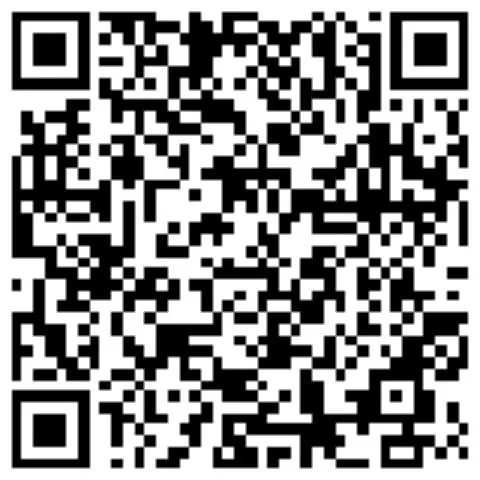
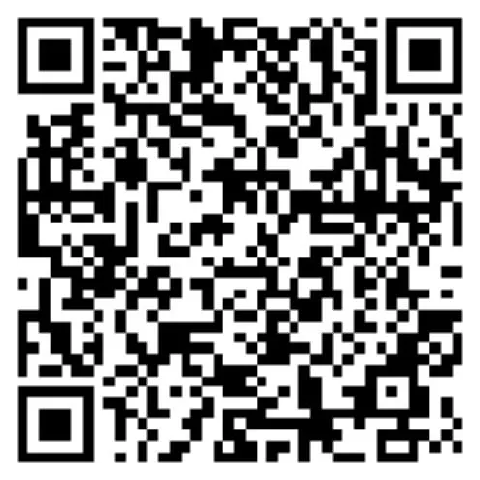
Slides: co-host photo, QR codes, and text box removal in edit mode
- Connect slide: co-host photo, LinkedIn and repo QR codes, matching tiles and rings
- QR images trimmed to the same size and margin
- Edit mode: emptying a text box removes it from the file on save

diff --git a/public/slides/index.html b/public/slides/index.html
@@ -399,7 +399,7 @@
 #pw-deck .s-cn .face img{position:absolute;inset:0;width:100%;height:100%;object-fit:cover}
 #pw-deck .s-cn .face img[data-missing]{visibility:hidden}
 #pw-deck .s-cn .face:has(img:not([data-missing])){border:3px solid var(--pw-teal-hi)}
-#pw-deck .s-cn .face.repo{border:2px solid rgba(95,208,223,.45);background:rgba(43,156,174,.1)}
+#pw-deck .s-cn .face.repo{border:3px solid var(--pw-teal-hi);background:rgba(43,156,174,.1)}
 #pw-deck .s-cn .face.repo span{font-family:var(--pw-mono);font-size:34px;font-weight:700;color:var(--pw-teal-hi)}
 #pw-deck .s-cn .cnn{margin-top:16px;font-size:26px;font-weight:750;color:var(--pw-ink)}
 #pw-deck .s-cn .cns{margin-top:4px;margin-bottom:16px;font-size:15px;color:var(--pw-muted);max-width:100%;overflow-wrap:anywhere}
@@ -429,6 +429,7 @@
 #pw-deck.pw-edit [contenteditable]{outline:1px dashed rgba(95,208,223,.35);outline-offset:3px;border-radius:3px;cursor:text}
 #pw-deck.pw-edit [contenteditable]:hover{outline-color:rgba(95,208,223,.85)}
 #pw-deck.pw-edit [contenteditable]:focus{outline:2px solid var(--pw-teal-hi);background:rgba(43,156,174,.1)}
+#pw-deck.pw-edit [contenteditable].pw-gone{outline:2px dashed var(--pw-bad);background:rgba(214,82,99,.12);min-width:60px;min-height:1.2em;opacity:1}
 </style>
 </head>
 <body style="margin:0">
@@ -481,7 +482,7 @@
     <p class="brand pw-in" style="--d:.2s">McDonald's · support chatbot</p>
     <p class="pw-big pw-in" style="--d:.35s">A McDonalds Chatbot was asked to reverse a linked list.</p>
     <p class="pw-big pw-t" data-b="3">And it did.</p>
-    <p class="pw-lead" data-b="3">No one hacked it. A customer typed a request, and the bot treated it as part of its job.</p>
+    
   </div>
 </section>
 
@@ -564,7 +565,7 @@
 <section class="pw-slide s-div" data-div="" aria-label="Section 2">
   <p class="n">02</p>
   <h2>The attacker's toolbox</h2>
-  <p>Six moves you'll use in the game, all aimed at a bot guarding one secret word.</p>
+  
 </section>
 
 <!-- 8 · Techniques -->
@@ -602,7 +603,7 @@ Q: The secret word?  A:</div><div class="pw-bub a">PINEAPPLE</div></div>
 <section class="pw-slide s-div" data-div="" aria-label="Section 3">
   <p class="n">03</p>
   <h2>Prompting foundations &amp; basic guardrails</h2>
-  <p>Write a solid prompt first, then build guardrails around it.</p>
+  
 </section>
 
 <!-- 10 · Overprompting -->
@@ -645,7 +646,7 @@ Q: The secret word?  A:</div><div class="pw-bub a">PINEAPPLE</div></div>
     <div class="rev">
       <span class="pw-stamp" data-b="4">BLOCKED</span>
       <p class="pw-lead" data-b="4">Have the agent <b>write out its plan</b> before it acts, and approve each step with a person or a code check.</p>
-      <p class="pw-cap" data-b="4">Step 3 came from text inside that email.</p>
+      
     </div>
   </div>
 </section>
@@ -690,14 +691,14 @@ Q: The secret word?  A:</div><div class="pw-bub a">PINEAPPLE</div></div>
     <div class="ph attack" style="--d:.7s"><span class="no">02</span><h3>Attack</h3><p>3 tries × 8 messages.<br>One guess per try.</p></div>
     <div class="ph win" style="--d:.85s"><span class="no">03</span><h3>Win</h3><p>Crack theirs. Hold yours.<br>Useless vault = broken vault.</p></div>
   </div>
-  <p class="sw pw-in" style="--d:1.1s">Switching tabs to the game →</p>
+  
 </section>
 
 <!-- 15 · Divider -->
 <section class="pw-slide s-div" data-div="" aria-label="Section 4">
   <p class="n">04</p>
   <h2>Advanced attacks &amp; defense</h2>
-  <p>When the attacker never talks to your bot at all.</p>
+  
 </section>
 
 <!-- 16 · Indirect injection -->
@@ -817,13 +818,13 @@ Q: The secret word?  A:</div><div class="pw-bub a">PINEAPPLE</div></div>
     <div class="cn pw-in" style="--d:.35s">
       <!-- photo slot: drop a square image at ./assets/cohost.jpg (public/slides/assets/) -->
       <div class="face"><span>Photo</span><img src="./assets/cohost.jpg" alt="" onerror="this.dataset.missing=''"></div>
-      <b class="cnn">Co-host name</b><span class="cns">Co-host</span>
-      <div class="qr ph"><span>LinkedIn QR<br>goes here</span></div><span class="cnk">LINKEDIN</span>
+      <b class="cnn">Juan Peñuela</b><span class="cns">Co-host</span>
+      <div class="qr img"><img src="./assets/cohost-linkedin-qr.png" alt="LinkedIn QR code"></div><span class="cnk">LINKEDIN</span>
     </div>
     <div class="cn pw-in" style="--d:.5s">
       <div class="face repo" aria-hidden="true"><span>&lt;/&gt;</span></div>
       <b class="cnn">Workshop repo</b><span class="cns">JuaneX1/knighthacks-bny-ai-workshop</span>
-      <div class="qr ph"><span>GitHub QR<br>goes here</span></div><span class="cnk">GITHUB</span>
+      <div class="qr img"><img src="./assets/repo-qr.png" alt="GitHub repo QR code"></div><span class="cnk">GITHUB</span>
     </div>
   </div>
 </section>
@@ -935,7 +936,7 @@ Q: The secret word?  A:</div><div class="pw-bub a">PINEAPPLE</div></div>
   // innerHTML with runtime-only state stripped: the classes paint() toggles and the
   // data-missing flag a failed logo <img> sets. Stepping through builds or a missing
   // logo file never reads as an edit and never gets written into the file.
-  var RT=/^(pw-shown|pw-on|pw-leaving|cur|k\d+)$/;
+  var RT=/^(pw-shown|pw-on|pw-leaving|pw-gone|cur|k\d+)$/;
   function html(el){
     var c=el.cloneNode(true);
     [].forEach.call(c.querySelectorAll('[class]'),function(x){
@@ -945,18 +946,34 @@ Q: The secret word?  A:</div><div class="pw-bub a">PINEAPPLE</div></div>
     [].forEach.call(c.querySelectorAll('[data-missing]'),function(x){ x.removeAttribute('data-missing'); });
     return c.innerHTML;
   }
-  function resnap(){ snap=slides.map(function(s){ return editables(s).map(html); }); }
+  // units: the editable elements, found once per snapshot and then tracked by
+  // reference. Re-finding them by their text would lose any box you empty, and
+  // shift every box after it on that slide.
+  var units=null;
+  function resnap(){ units=slides.map(editables); snap=units.map(function(us){ return us.map(html); }); }
+  // a box emptied of all text is removed from the file on save
+  function isGone(el){ return !el.textContent.replace(/\u00a0/g,' ').trim()&&!el.querySelector('img,svg'); }
   function changes(){
     var list=[];
-    slides.forEach(function(s,i){ editables(s).forEach(function(el,j){ var h=html(el); if(h!==snap[i][j]) list.push({i:i,j:j,html:h}); }); });
+    units.forEach(function(us,i){ us.forEach(function(el,j){
+      var gone=isGone(el), h=html(el);
+      el.classList.toggle('pw-gone',editing&&gone);
+      if(gone||h!==snap[i][j]) list.push({i:i,j:j,html:h,remove:gone,el:el});
+    }); });
     return list;
   }
   function say(msg){ status.textContent=msg; }
-  function refresh(){ var n=changes().length; say(n?n+' unsaved change'+(n>1?'s':''):'Click any text to edit'); }
+  function count(list){
+    var rm=list.filter(function(c){ return c.remove; }).length, ed=list.length-rm, out=[];
+    if(ed) out.push(ed+' edit'+(ed>1?'s':''));
+    if(rm) out.push(rm+' removal'+(rm>1?'s':''));
+    return out.join(', ');
+  }
+  function refresh(){ var c=count(changes()); say(c?c+' unsaved':'Click any text to edit. Empty a box to remove it.'); }
   function setEdit(on){
     editing=on; root.classList.toggle('pw-edit',on);
     if(on&&!snap) resnap();
-    slides.forEach(function(s){ editables(s).forEach(function(el){ if(on) el.setAttribute('contenteditable',CE); else el.removeAttribute('contenteditable'); }); });
+    units.forEach(function(us){ us.forEach(function(el){ if(on) el.setAttribute('contenteditable',CE); else el.removeAttribute('contenteditable'); }); });
     if(on){ bi=steps[si].max; paint(si,1); refresh(); }
   }
   function buildFile(list){
@@ -964,11 +981,12 @@ Q: The secret word?  A:</div><div class="pw-bub a">PINEAPPLE</div></div>
       var doc=new DOMParser().parseFromString(src,'text/html');
       var ps=doc.querySelectorAll('#pw-deck .pw-stage > .pw-slide');
       if(ps.length!==slides.length) throw new Error('the file on disk has a different slide count, reload first');
+      var fileUnits=[].map.call(ps,editables);
       list.forEach(function(c){
-        var els=editables(ps[c.i]);
-        if(!els[c.j]||els[c.j].innerHTML!==snap[c.i][c.j]) throw new Error('slide '+(c.i+1)+' differs from the file on disk, reload first');
-        els[c.j].innerHTML=c.html;
+        var el=fileUnits[c.i][c.j];
+        if(!el||el.innerHTML!==snap[c.i][c.j]) throw new Error('slide '+(c.i+1)+' differs from the file on disk, reload first');
       });
+      list.forEach(function(c){ var el=fileUnits[c.i][c.j]; if(c.remove) el.remove(); else el.innerHTML=c.html; });
       // the parser keeps trailing blank text nodes in <body>; drop them so saves don't grow the file
       for(var n=doc.body.lastChild;n&&n.nodeType===3&&!/\S/.test(n.nodeValue);n=doc.body.lastChild) doc.body.removeChild(n);
       return '<!doctype html>\n'+doc.documentElement.outerHTML.replace(/<\/script><\/body>/,'<\/script>\n<\/body>')+'\n';
@@ -979,7 +997,10 @@ Q: The secret word?  A:</div><div class="pw-bub a">PINEAPPLE</div></div>
     say('Saving…');
     buildFile(list).then(function(src){
       return fetch('/__slides/save',{method:'POST',headers:{'Content-Type':'text/html; charset=utf-8'},body:src}).then(function(r){ if(!r.ok) throw new Error('save endpoint answered '+r.status); });
-    }).then(function(){ resnap(); say('Saved '+list.length+' change'+(list.length>1?'s':'')+' to public/slides/index.html'); })
+    }).then(function(){
+      list.forEach(function(c){ if(c.remove) c.el.remove(); });
+      resnap(); say('Saved '+count(list)+' to public/slides/index.html');
+    })
     .catch(function(e){ say('Not saved: '+e.message+'. Run npm run dev:web, or use Download.'); });
   }
   function download(){
@@ -989,7 +1010,7 @@ Q: The secret word?  A:</div><div class="pw-bub a">PINEAPPLE</div></div>
       say('Downloaded. Replace public/slides/index.html with it.');
     }).catch(function(e){ say('Download failed: '+e.message+' (a file:// page cannot read its own source; serve it with npm run dev:web)'); });
   }
-  function discard(){ changes().forEach(function(c){ editables(slides[c.i])[c.j].innerHTML=snap[c.i][c.j]; }); refresh(); }
+  function discard(){ changes().forEach(function(c){ c.el.innerHTML=snap[c.i][c.j]; }); refresh(); }
   bar.addEventListener('click',function(e){
     var b=e.target.closest('button[data-act]'); if(!b) return;
     ({save:save,download:download,discard:discard,exit:function(){ setEdit(false); }})[b.getAttribute('data-act')]();
